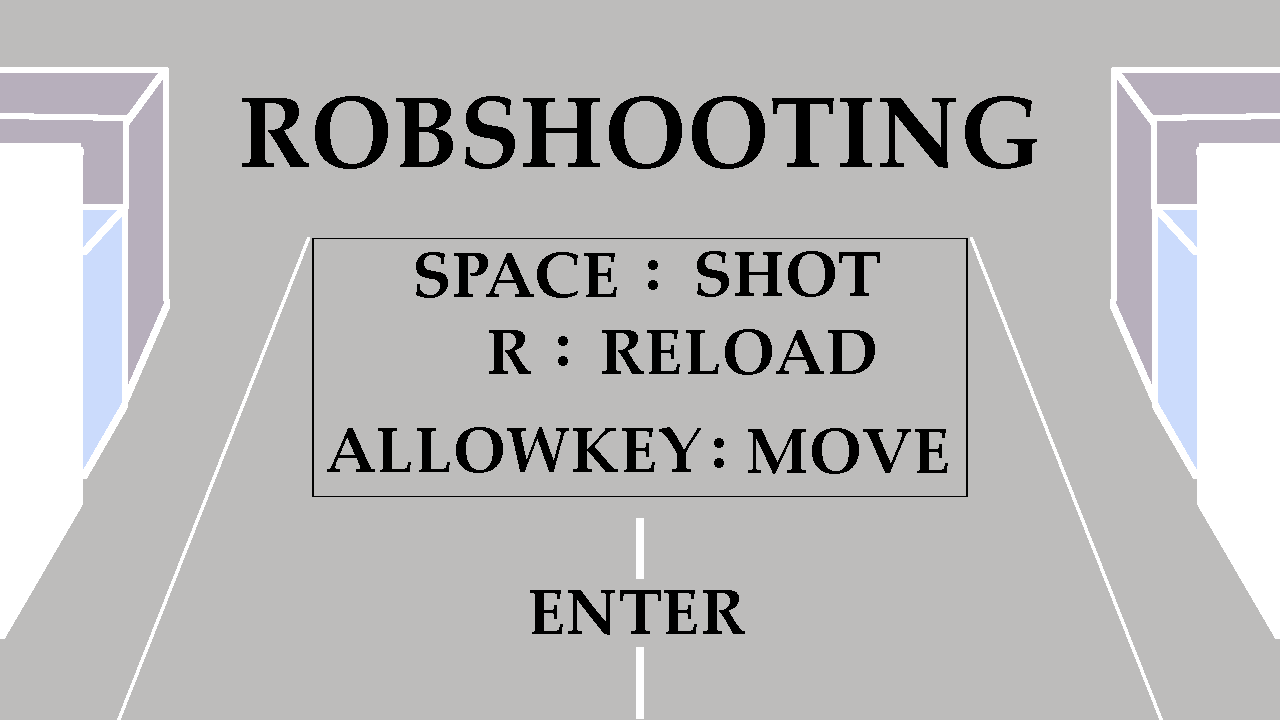
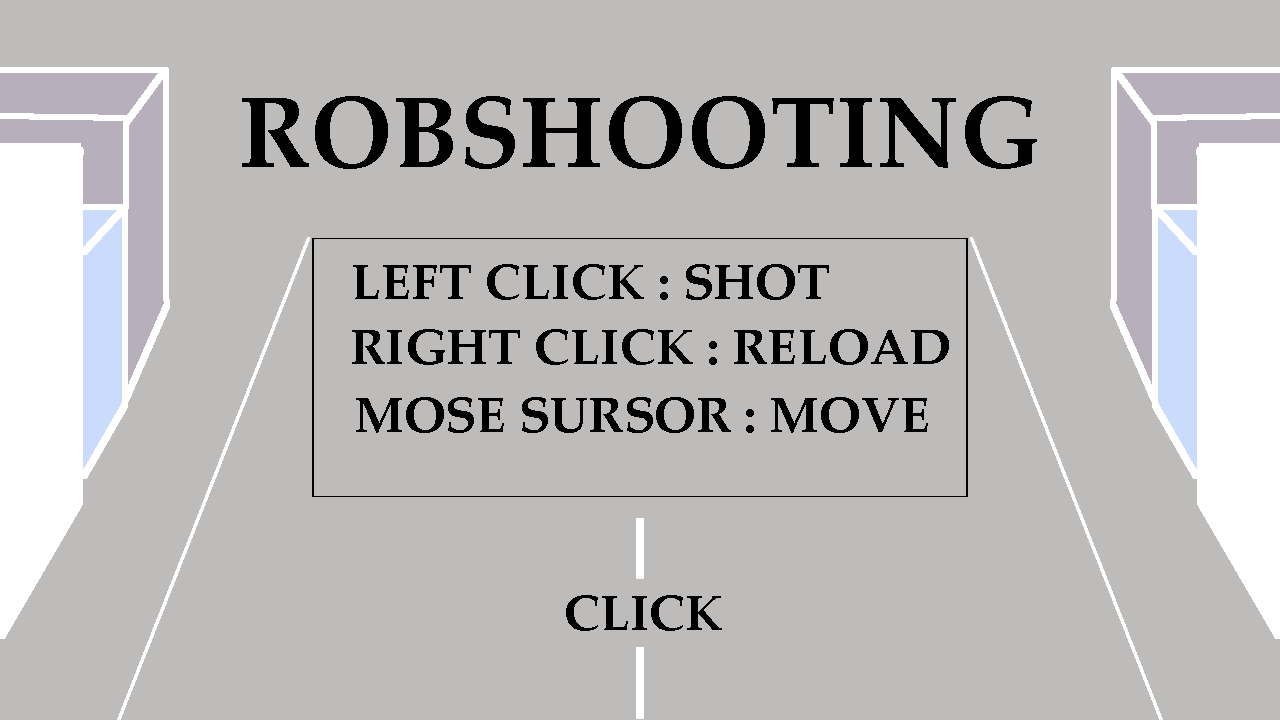
テストプレイ3

diff --git a/Application/middle.cpp b/Application/middle.cpp
@@ -187,7 +187,7 @@ void middle::Updata()
 	if (patern >= 6) {
 		bool fring = player->GetFring();
 		if (fring == true) {
-			GoalPos.m128_f32[1] += 0.1f;
+			GoalPos.m128_f32[1] += 0.2f;
 
 		}
 	}
@@ -255,22 +255,22 @@ void middle::SpriteDraw()
 void middle::ImGuiDraw()
 {
 
-	for (std::unique_ptr<Robot>& robot : rob) {
-		robot->ImgDraw();
-	}
-	player->ImGuiDraw();
-	float a = patern;
-	ImGui::PushStyleColor(ImGuiCol_TitleBgActive, ImVec4(0.0f, 0.7f, 0.7f, 1.0f));
-	ImGui::PushStyleColor(ImGuiCol_TitleBg, ImVec4(0.1f, 0.0f, 0.1f, 0.0f));
-	ImGui::SetWindowSize(ImVec2(400, 500), ImGuiCond_::ImGuiCond_FirstUseEver);
-	ImGui::Begin("Plyer");
-	ImGui::Checkbox("move", &move);
-	ImGui::Checkbox("finish", &finish);
-	ImGui::SliderFloat("patern", &a, -100.0f, 100.0f);
+	//for (std::unique_ptr<Robot>& robot : rob) {
+	//	robot->ImgDraw();
+	//}
+	//player->ImGuiDraw();
+	//float a = patern;
+	//ImGui::PushStyleColor(ImGuiCol_TitleBgActive, ImVec4(0.0f, 0.7f, 0.7f, 1.0f));
+	//ImGui::PushStyleColor(ImGuiCol_TitleBg, ImVec4(0.1f, 0.0f, 0.1f, 0.0f));
+	//ImGui::SetWindowSize(ImVec2(400, 500), ImGuiCond_::ImGuiCond_FirstUseEver);
+	//ImGui::Begin("Plyer");
+	//ImGui::Checkbox("move", &move);
+	//ImGui::Checkbox("finish", &finish);
+	//ImGui::SliderFloat("patern", &a, -100.0f, 100.0f);
 
-	ImGui::End();
-	ImGui::PopStyleColor();
-	ImGui::PopStyleColor();
+	//ImGui::End();
+	//ImGui::PopStyleColor();
+	//ImGui::PopStyleColor();
 
 }
 

diff --git a/scene/GameScene.cpp b/scene/GameScene.cpp
@@ -9,6 +9,7 @@
 #include"FbxObject3d.h"
 #include"ClearScene.h"
 #include"GameOverScene.h"
+#include"TitleScene.h"
 #include"DebugScene.h"
 #include"ModelManager.h"
 
@@ -67,6 +68,8 @@ void GameScene::Initialize(DirectXCommon* dxComon)
 	postEffect = new PostEffect();
 	postEffect->Initialize();
 
+	Sprite::LoadTexture(35, L"Resources/Mision.png");
+	Comp = Sprite::SpriteCreate(35, { 0.0f,0.0f });
 
 }
 
@@ -124,7 +127,7 @@ void GameScene::AllUpdata()
 	world->Updata();
 	Start->Updata();
 	mid->Updata();
-
+	postEffect->Update(col);
 }
 
 void GameScene::Updata()
@@ -162,13 +165,20 @@ void GameScene::Updata()
 	XMVECTOR GoalPos = mid->GetGoalPos();
 
 	if (GoalPos.m128_f32[1] >= 100) {
-		BaseScene* scene_ = new ClearScene(sceneManager_);
-		sceneManager_->SetNextScene(scene_);
+		complete = true;
 	}
 
-	SetPosSclRot();
-	postEffect->Update(col);
-	AllUpdata();
+	if (complete == false) {
+		SetPosSclRot();
+		AllUpdata();
+	}
+
+	if (complete == true) {
+		if (Input::GetInstance()->PushClick(0)) {
+			BaseScene* scene_ = new TitleScene(sceneManager_);
+			sceneManager_->SetNextScene(scene_);
+		}
+	}
 }
 
 void GameScene::ObjDraw(DirectXCommon* dxCommon)
@@ -198,6 +208,9 @@ void GameScene::SpriteDraw(DirectXCommon* dxCommon)
 {
 	Sprite::PreDraw(dxCommon->GetCmdList());
 	mid->SpriteDraw();
+	if (complete == true) {
+		Comp->Draw();
+	}
 	Sprite::PostDraw();
 }
 

diff --git a/Application/Player/Player.h b/Application/Player/Player.h
@@ -92,6 +92,7 @@ private:
 	std::unique_ptr<Sprite> curtain;
 	std::unique_ptr<Sprite> curtain2;
 	std::unique_ptr<Sprite> window;
+	std::unique_ptr<Sprite> skip;
 
 	std::unique_ptr<Object3d> gun;
 	ObjModel* gunModel = nullptr;
@@ -152,6 +153,7 @@ private:
 	XMFLOAT2 curtainPos2 = { 0.0f,720.0f };
 
 	XMFLOAT2 windowPos = { 0.0f,0.0f };
+	XMFLOAT2 skipPos = { 1100,720.0f };
 
 	XMVECTOR offset = { 0,0,1.0f };
 

diff --git a/scene/GameOverScene.cpp b/scene/GameOverScene.cpp
@@ -21,7 +21,7 @@ void GameOverScene::SetPosSclRot()
 
 void GameOverScene::Updata()
 {
-	if (Input::GetInstance()->PushKey(DIK_RETURN)) {
+	if (Input::GetInstance()->PushClick(0)|| Input::GetInstance()->PushClick(1)) {
 		BaseScene* scene_ = new TitleScene(sceneManager_);
 		sceneManager_->SetNextScene(scene_);
 	}

diff --git a/scene/GameScene.h b/scene/GameScene.h
@@ -90,6 +90,7 @@ private:
 
 	Sprite* sprite = nullptr;
 	Sprite* title = nullptr;
+	Sprite* Comp = nullptr;
 
 
 
@@ -141,6 +142,8 @@ private:
 	XMFLOAT4 col = { 0.0f,1.0f,1.0f,1.0f };
 
 	float billsposY = { -150.0f };
-
+	bool complete = false;
+	bool gamestop = false;
+	bool deth = false;
 };
 

diff --git a/Application/Enemy/BothArms.cpp b/Application/Enemy/BothArms.cpp
@@ -95,7 +95,7 @@ void BothArms::Attack(float& attackT,bool& AttackFase,int& playerHp, const bool&
 				attack = false;
 				AttackFase = false;
 				attackT = 0;
-				//playerHp -= 1;
+				playerHp -= 1;
 			}
 		}
 	}
